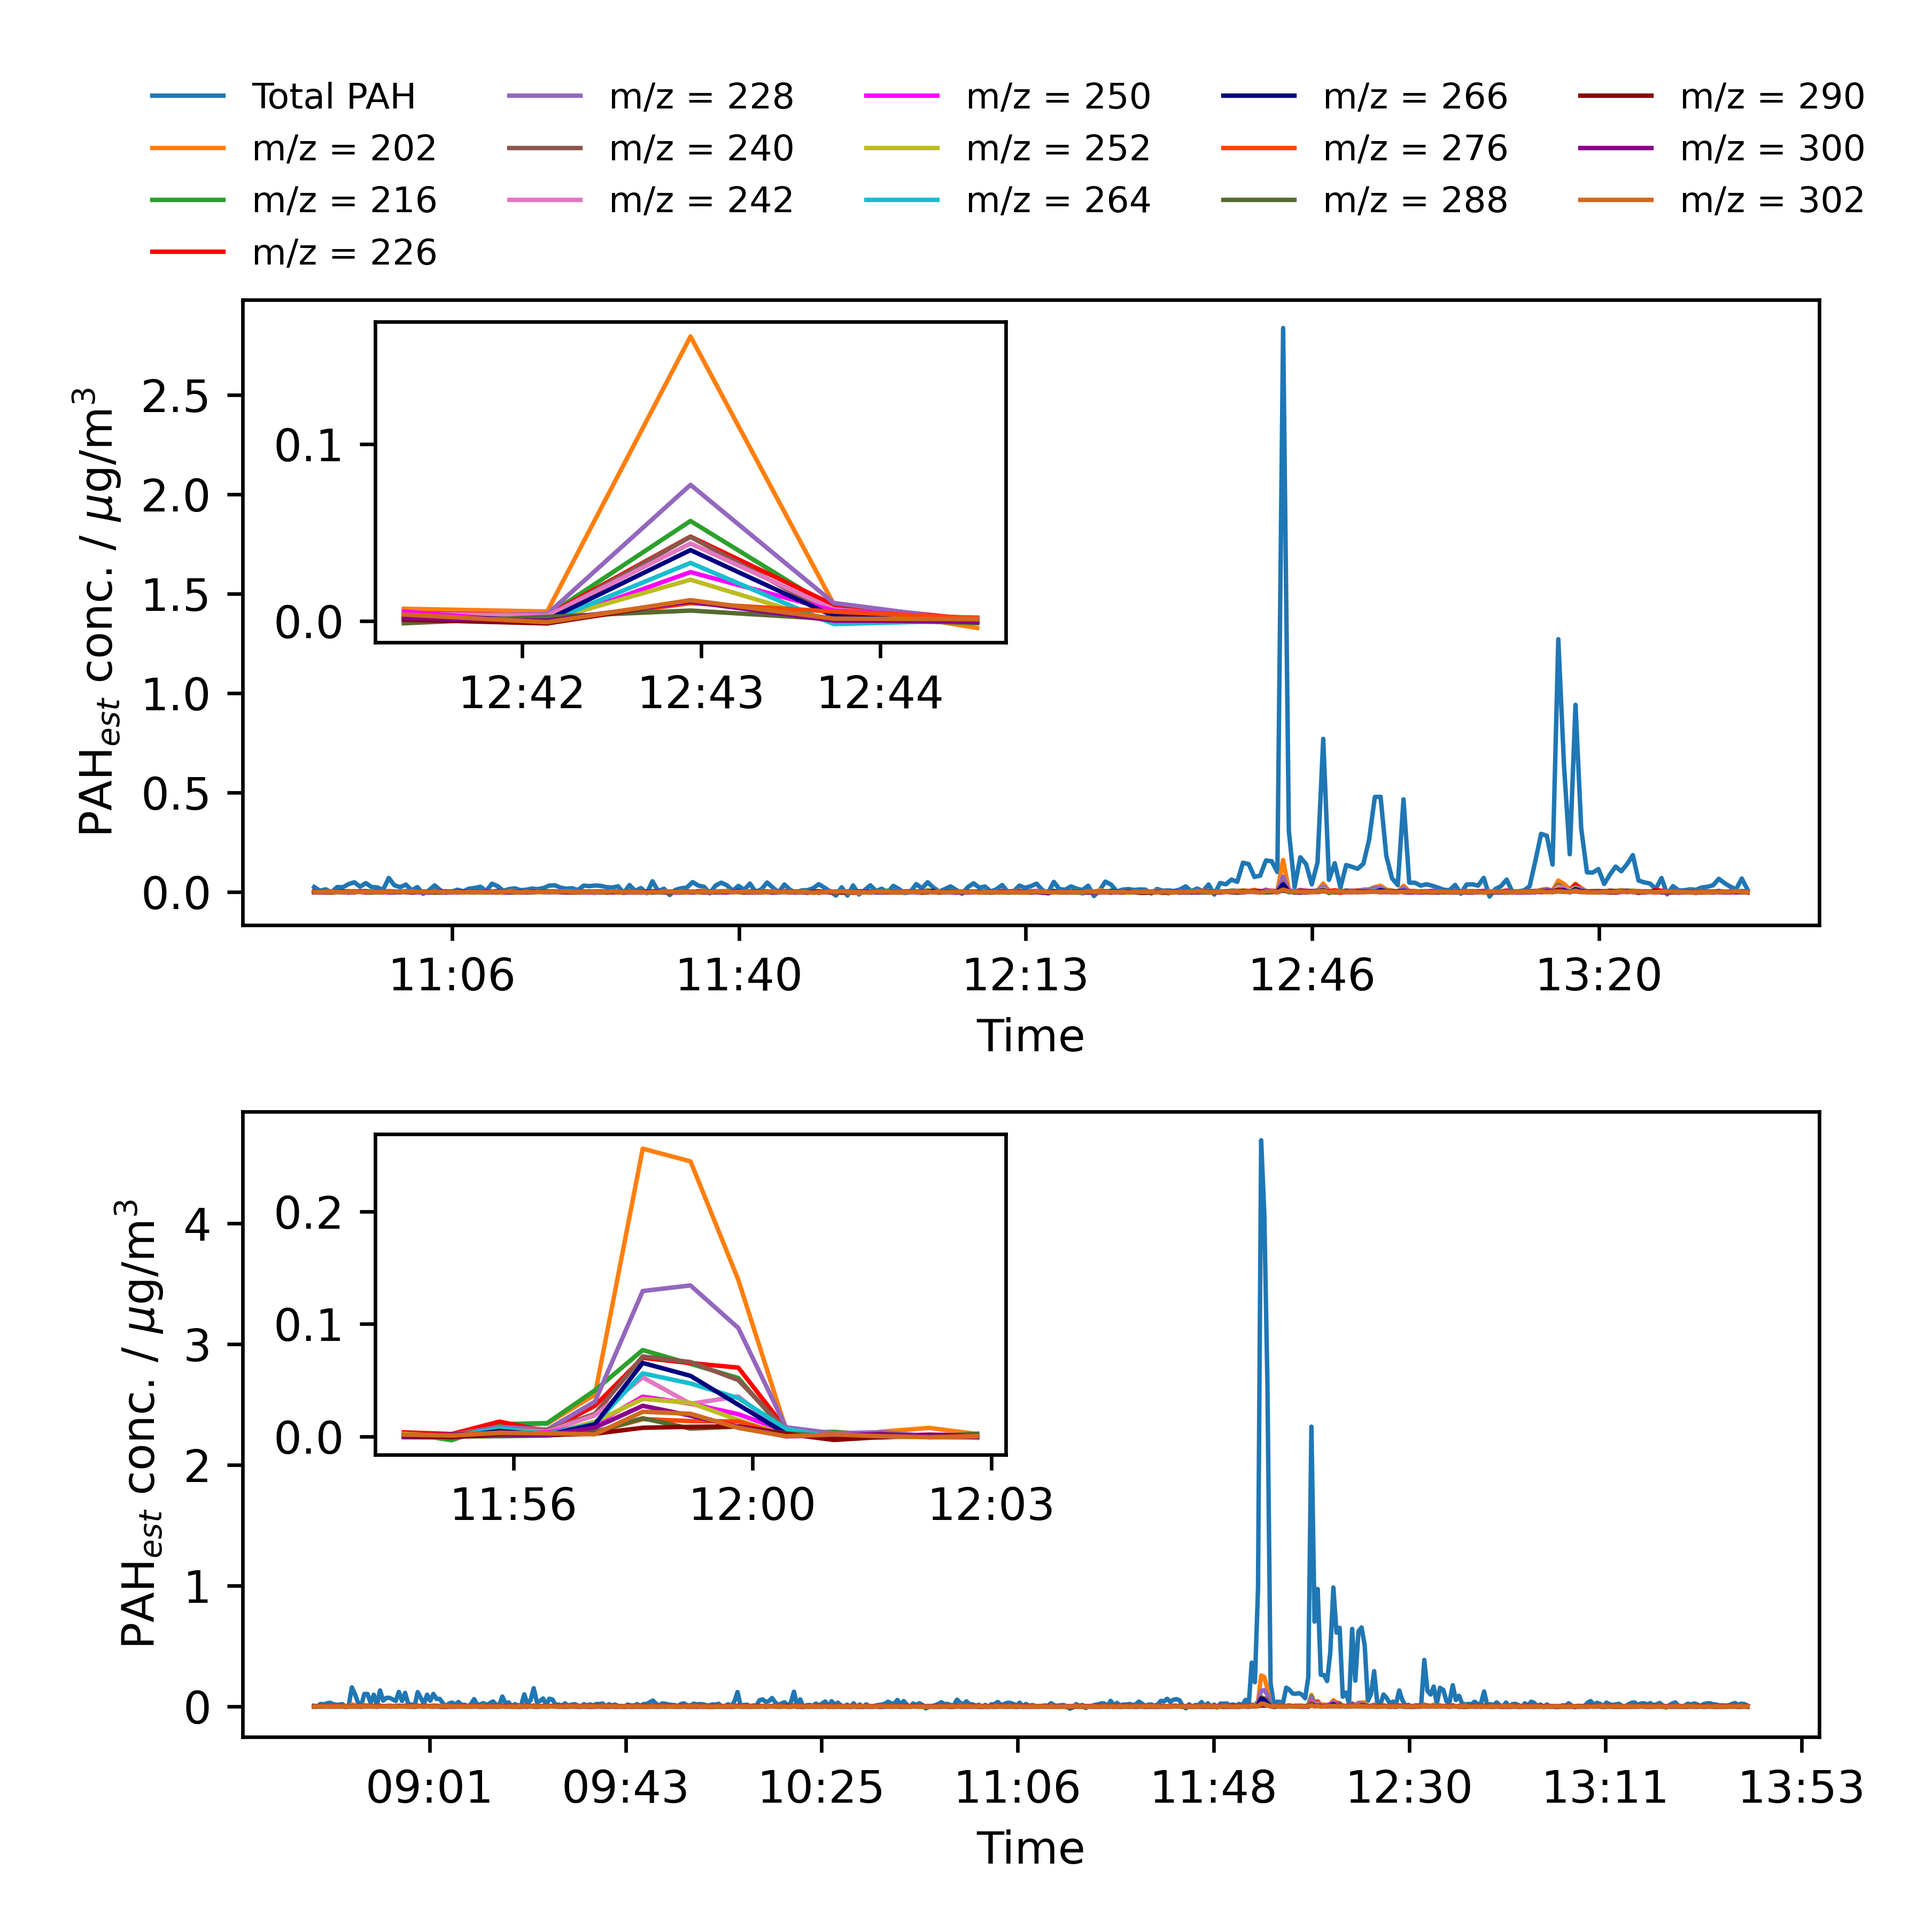
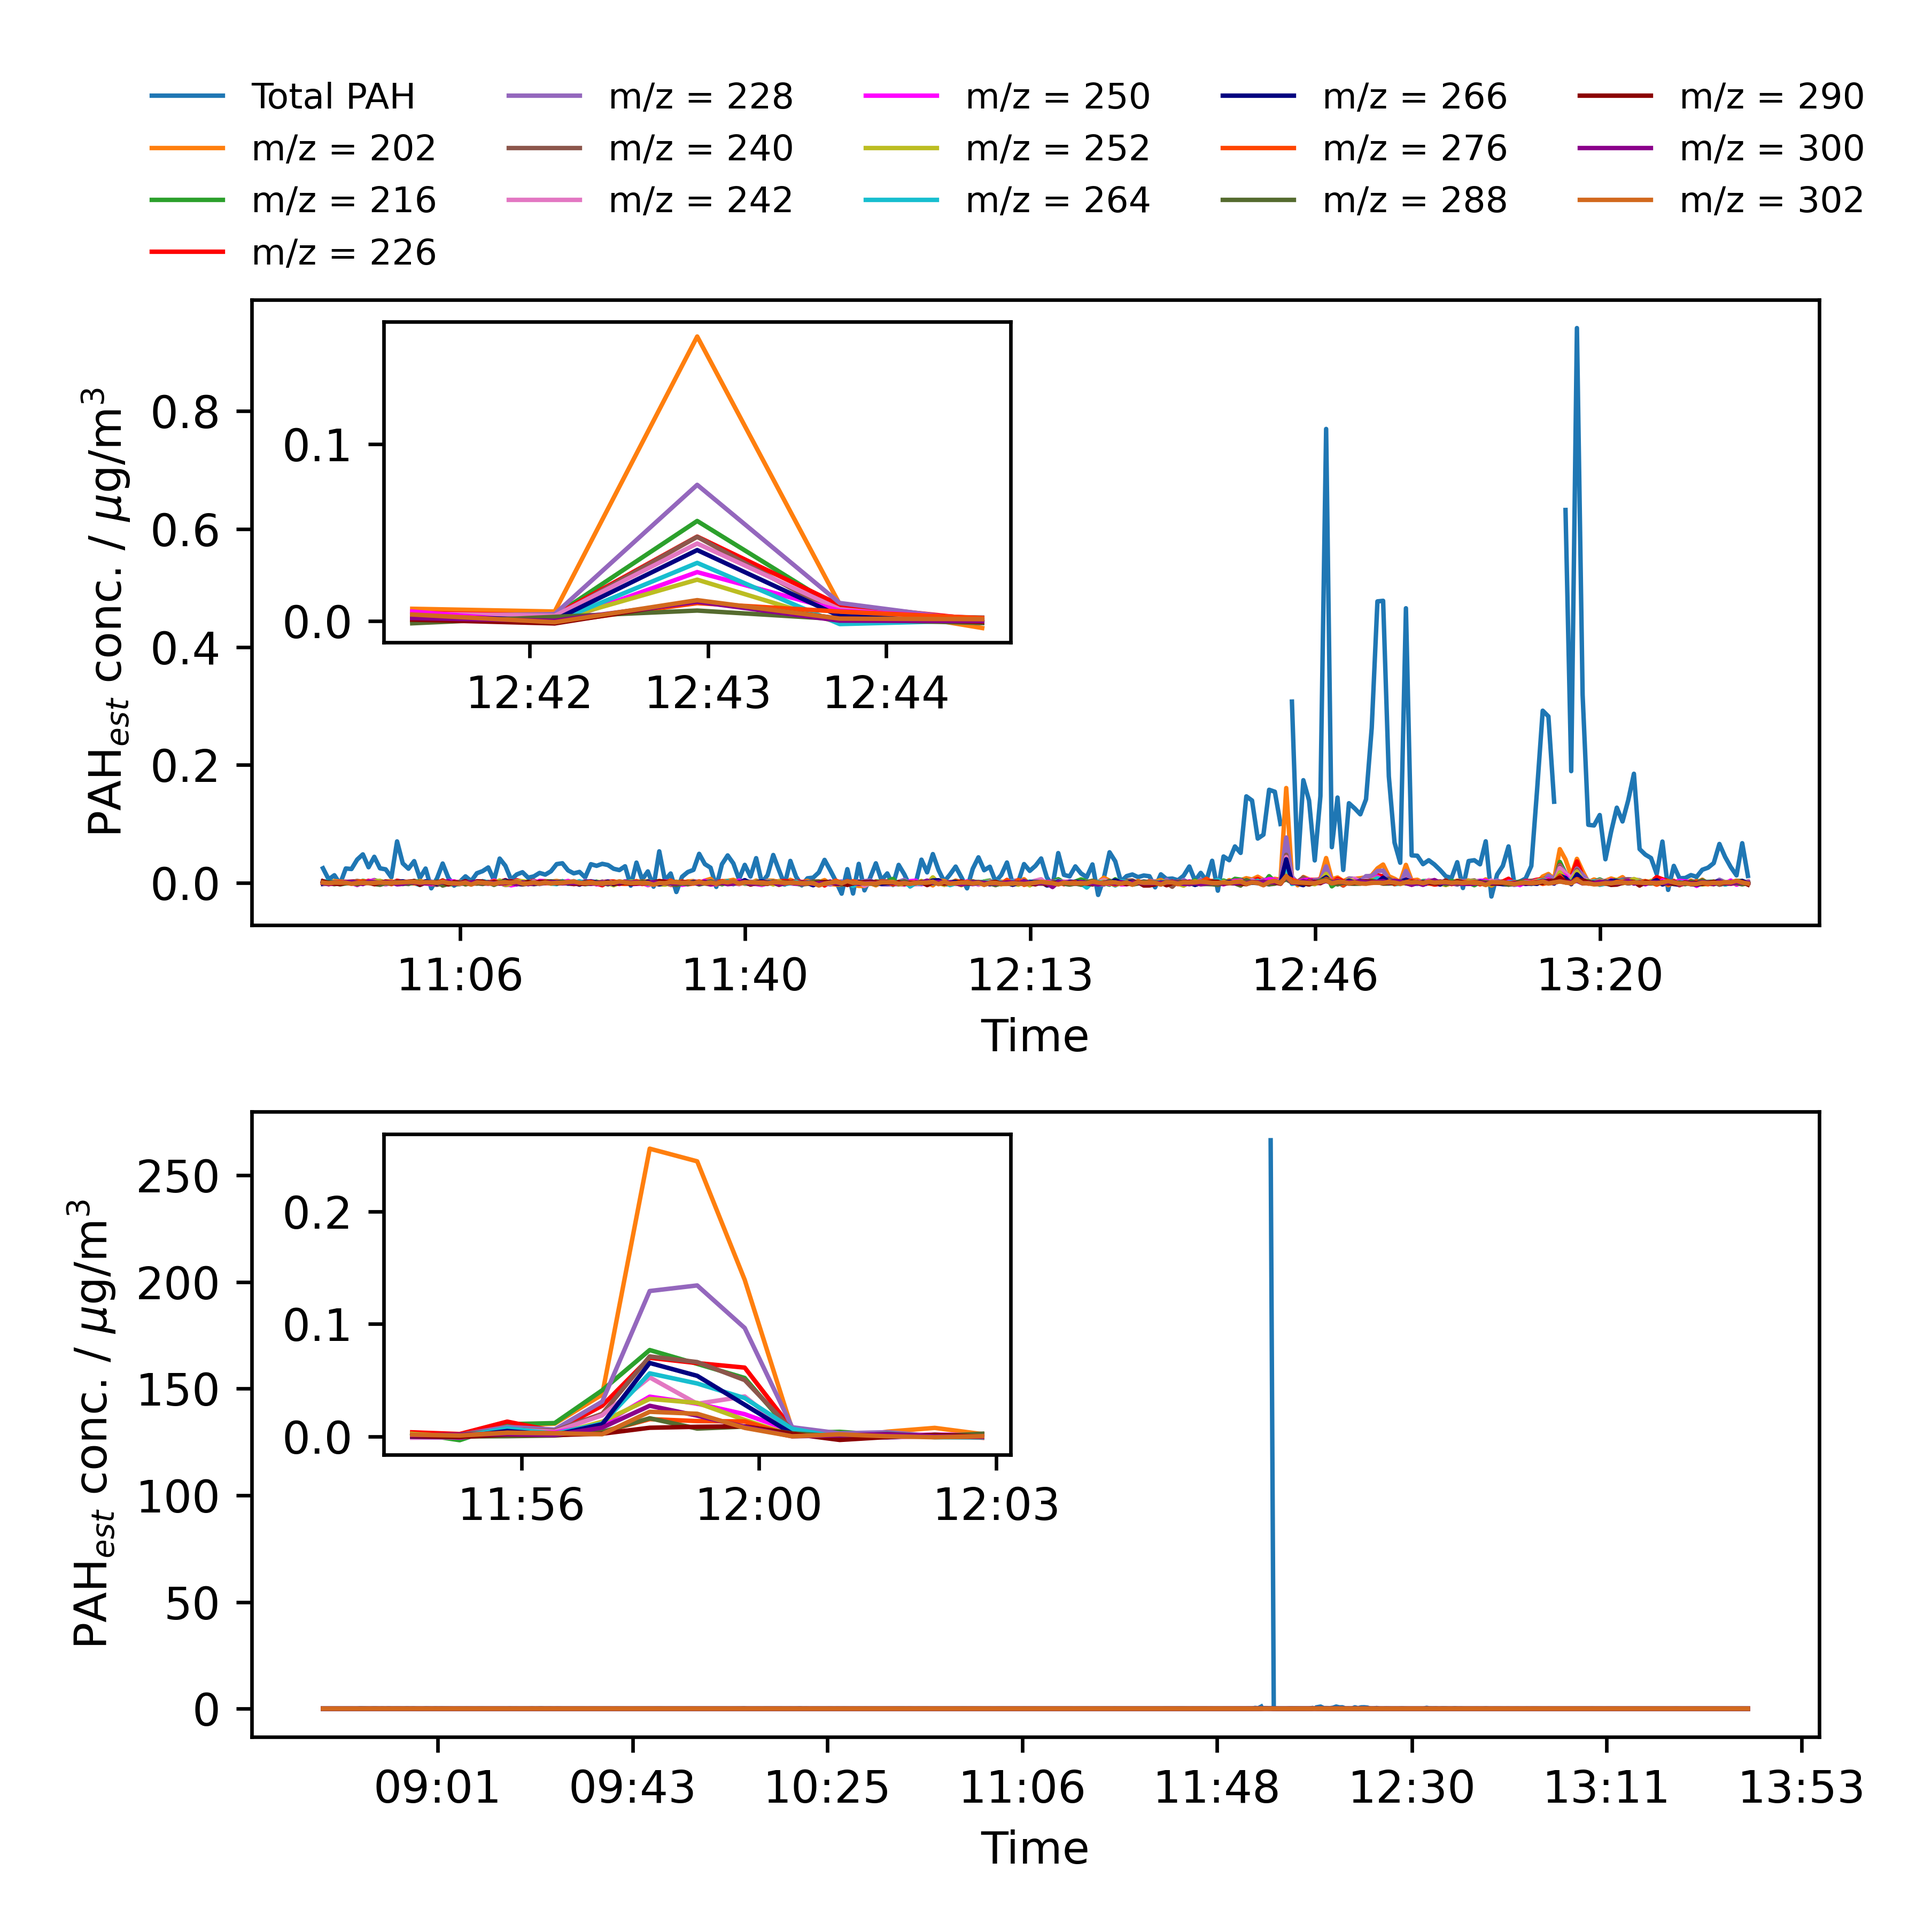
Update

diff --git a/field.py b/field.py
@@ -182,21 +182,21 @@ def plot_overview(ax, df, label, df_keys, ncol):
     ax.legend(frameon = False, fontsize = 8, ncol = ncol)
     ax.set(ylabel = 'Intensity', xlabel = 'Time')
 
-def plot_PAH_ACSM(ax, data_dict, dict_keys, colors):
+def plot_PAH_ACSM(ax, data_dict, dict_keys, colors, peak_int):
     for i, dict_key in enumerate(dict_keys):
         df = data_dict[dict_key]
         for j, key in enumerate(df.keys()[1:]):
-            ax[i][0].plot(df['Time'], df[key], lw = 1, color = colors[j])
+            ax[i][0].plot(df['Time'][peak_int[i][0]:peak_int[i][1]], df[key][peak_int[i][0]:peak_int[i][1]], lw = 1, color = colors[j])
 
-            if 'm' in key:
-                ax[i][1].plot(df['Time'], df[key], lw = 1, color = colors[j])
+            if 'm/z' in key:
+                ax[i][1].plot(df['Time'][peak_int[i][2]:peak_int[i][3]], df[key][peak_int[i][2]:peak_int[i][3]], lw = 1, color = colors[j])
 
         formatter = FuncFormatter(lambda s, x: time.strftime('%H:%M', time.gmtime(s)))
         ax[i][0].xaxis.set_major_formatter(formatter)
         ax[i][0].tick_params(axis = 'both', which = 'major', direction = 'out', bottom = True, left = True, labelsize = 8)
 
         ax[i][0].set_xlabel('Time', fontsize = 8)
-        ax[i][0].set_ylabel('PAH$_{est}$ conc. / $\mu$g/m$^{3}$', fontsize = 8)
+        ax[i][0].set_ylabel('PAH$_{est}$ / $\mu$g/m$^{3}$', fontsize = 8)
         ax[i][0].set_title(dict_key, fontsize = 9)
 
         formatter = FuncFormatter(lambda s, x: time.strftime('%H:%M', time.gmtime(s)))
@@ -204,7 +204,7 @@ def plot_PAH_ACSM(ax, data_dict, dict_keys, colors):
         ax[i][1].tick_params(axis = 'both', which = 'major', direction = 'out', bottom = True, left = True, labelsize = 8)
 
         ax[i][1].set_xlabel('Time', fontsize = 8)
-        ax[i][1].set_ylabel('PAH$_{est}$ conc. / $\mu$g/m$^{3}$', fontsize = 8)
+        ax[i][1].set_ylabel('PAH$_{est}$ / $\mu$g/m$^{3}$', fontsize = 8)
         ax[i][1].set_title(dict_key, fontsize = 9)
 
         
